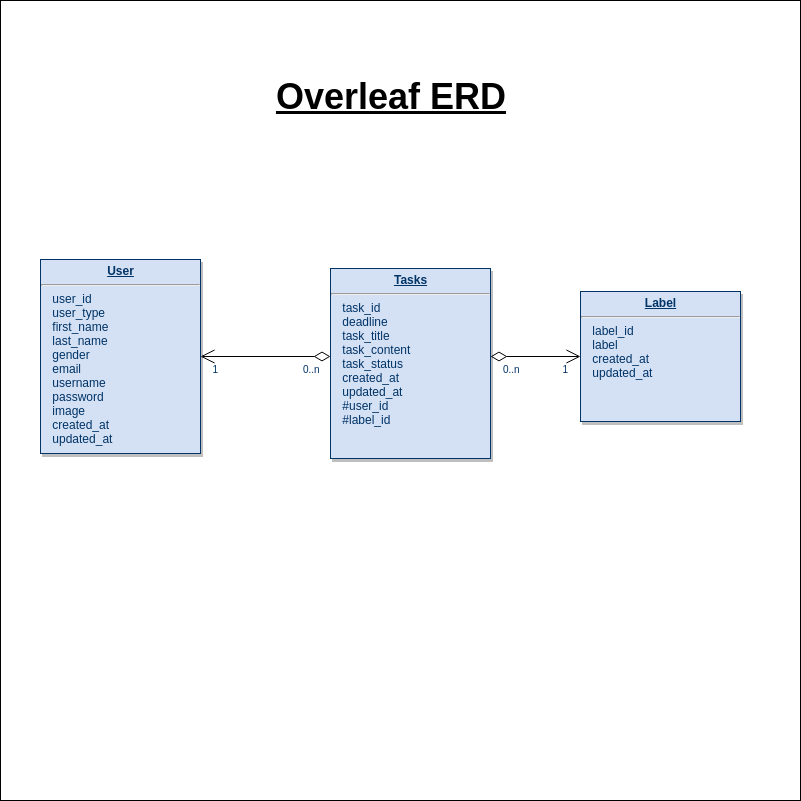
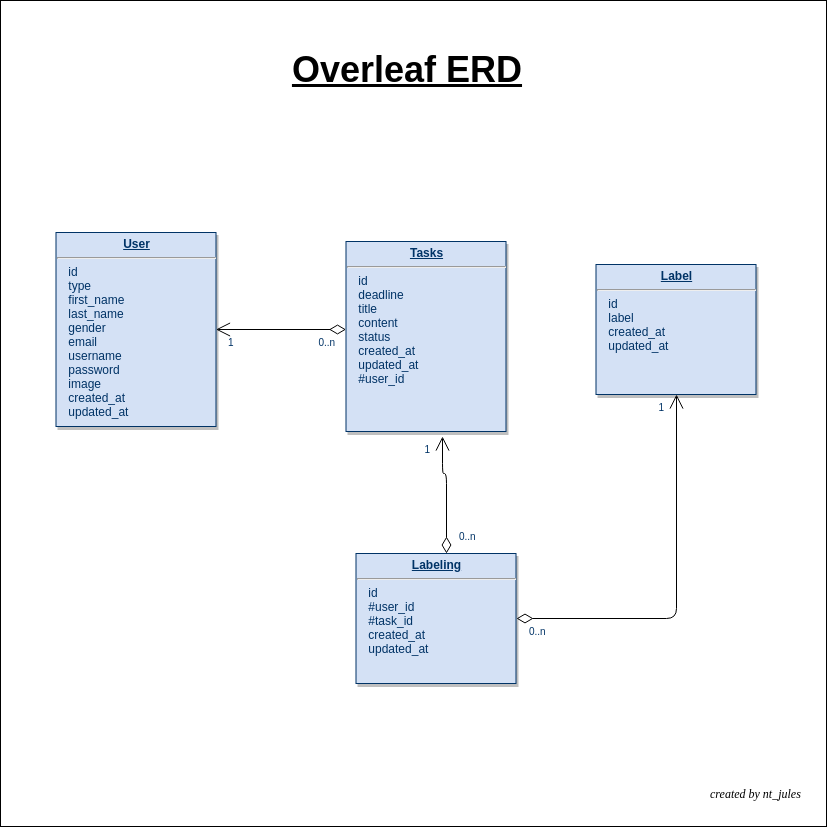
adding labeling table to handle many_to_many relation btn label&task

diff --git a/db/schema.rb b/db/schema.rb
@@ -10,10 +10,17 @@
 #
 # It's strongly recommended that you check this file into your version control system.
 
-ActiveRecord::Schema.define(version: 2019_08_27_133106) do
+ActiveRecord::Schema.define(version: 2019_09_09_125843) do
 
   # These are extensions that must be enabled in order to support this database
   enable_extension "plpgsql"
+
+  create_table "labelings", force: :cascade do |t|
+    t.integer "user_id"
+    t.integer "task_id"
+    t.datetime "created_at", precision: 6, null: false
+    t.datetime "updated_at", precision: 6, null: false
+  end
 
   create_table "labels", force: :cascade do |t|
     t.string "label"
@@ -23,9 +30,10 @@ ActiveRecord::Schema.define(version: 2019_08_27_133106) do
 
   create_table "tasks", force: :cascade do |t|
     t.datetime "deadline"
-    t.string "task_title"
-    t.text "task_content"
-    t.string "task_status"
+    t.string "title"
+    t.text "content"
+    t.string "status"
+    t.integer "user_id"
     t.datetime "created_at", precision: 6, null: false
     t.datetime "updated_at", precision: 6, null: false
   end
@@ -38,7 +46,7 @@ ActiveRecord::Schema.define(version: 2019_08_27_133106) do
     t.string "gender"
     t.string "password"
     t.text "image"
-    t.string "user_type"
+    t.string "type"
     t.datetime "created_at", precision: 6, null: false
     t.datetime "updated_at", precision: 6, null: false
   end

diff --git a/db/migrate/20190827133100_create_tasks.rb b/db/migrate/20190827133100_create_tasks.rb
@@ -3,9 +3,10 @@ class CreateTasks < ActiveRecord::Migration[6.0]
     create_table :tasks do |t|
 
       t.datetime :deadline
-      t.string   :task_title
-      t.text     :task_content
-      t.string   :task_status
+      t.string   :title
+      t.text     :content
+      t.string   :status
+      t.integer  :user_id
 
       t.timestamps
     end

diff --git a/db/migrate/20190827133043_create_users.rb b/db/migrate/20190827133043_create_users.rb
@@ -9,7 +9,7 @@ class CreateUsers < ActiveRecord::Migration[6.0]
       t.string :gender
       t.string :password
       t.text   :image
-      t.string :user_type
+      t.string :type
       
       t.timestamps
     end

diff --git a/db/migrate/20190909125843_create_labelings.rb b/db/migrate/20190909125843_create_labelings.rb
@@ -1,0 +1,10 @@
+class CreateLabelings < ActiveRecord::Migration[6.0]
+  def change
+    create_table :labelings do |t|
+      t.integer :user_id
+      t.integer :task_id
+
+      t.timestamps
+    end
+  end
+end

diff --git a/test/models/labeling_test.rb b/test/models/labeling_test.rb
@@ -1,0 +1,7 @@
+require 'test_helper'
+
+class LabelingTest < ActiveSupport::TestCase
+  # test "the truth" do
+  #   assert true
+  # end
+end

diff --git a/app/models/labeling.rb b/app/models/labeling.rb
@@ -1,0 +1,2 @@
+class Labeling < ApplicationRecord
+end

diff --git a/README.md b/README.md
@@ -3,8 +3,8 @@
 
 | Table | Model | Colum_name | Data_type |
 |-------|-------|------------|-----------|
-| users | user  | user_id    | string    |
-|       |       | user_type  | string    |
+| users | user  | id         | string    |
+|       |       | type       | string    |
 |       |       | first_name | string    |
 |       |       | last_name  | string    |
 |       |       | gender     | string    |
@@ -18,21 +18,30 @@
 
 | Table | Model | Colum_name   | Data_type |
 |-------|-------|--------------|-----------|
-| tasks | task  | task_id      | string    |
+| tasks | task  | id           | string    |
 |       |       | deadline     | timestamp |
-|       |       | task_title   | string    |
-|       |       | task_content | text      |
-|       |       | task_status  | string    |
+|       |       | title        | string    |
+|       |       | content      | text      |
+|       |       | status       | string    |
+|       |       | user_id      | integer   |
 |       |       | created_at   | timestamp |
 |       |       | updated_at   | timestamp |
 
 
 | Table  | Model | Colum_name | Data_type |
 |--------|-------|------------|-----------|
-| labels | label | label_id   | string    |
+| labels | label | id         | string    |
 |        |       | label      | string    |
 |        |       | created_at | timestamp |
 |        |       | updated_at | timestamp |
+
+| Table     | Model    | Colum_name | Data_type |
+|-----------|----------|------------|-----------|
+| labelings | labeling | id         | string    |
+|           |          | user_id    |           |
+|           |          | task_id    | string    |
+|           |          | created_at | timestamp |
+|           |          | updated_at | timestamp |
 
 
 App fuctionalities
